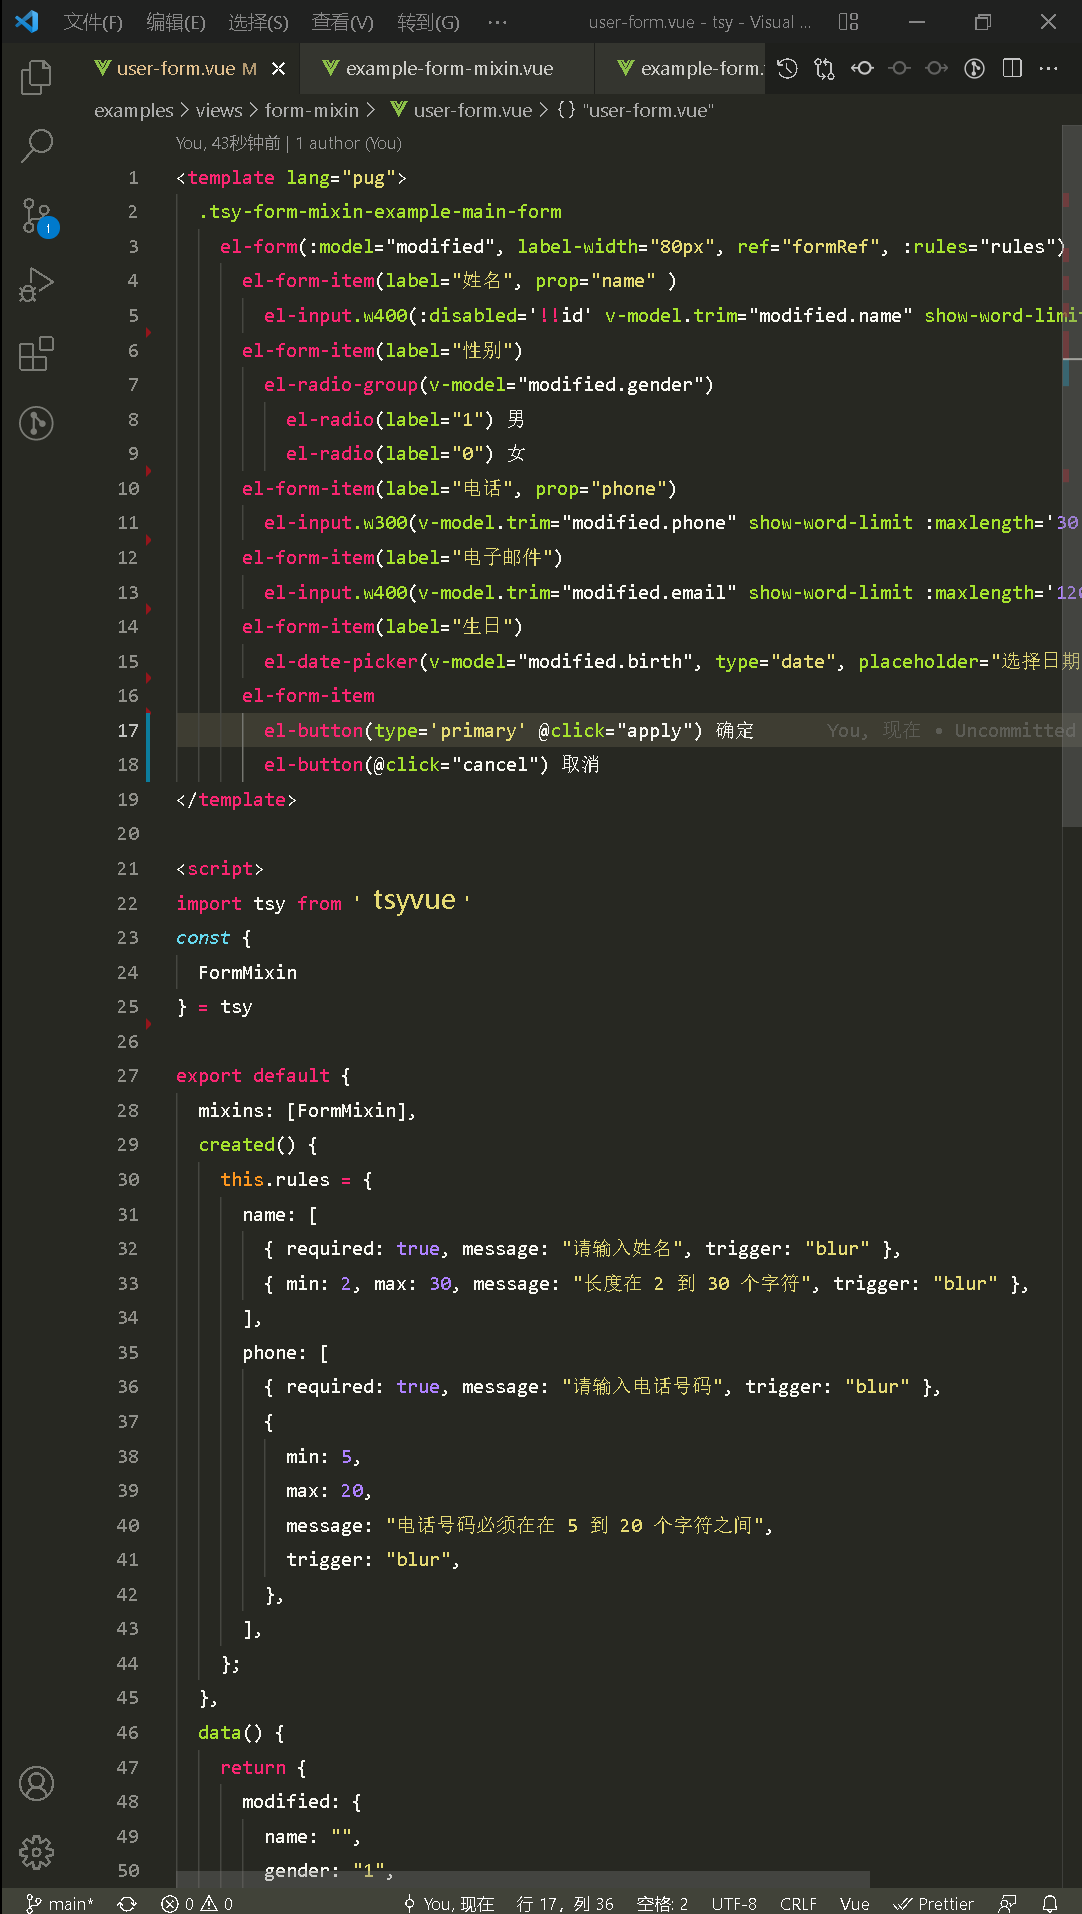
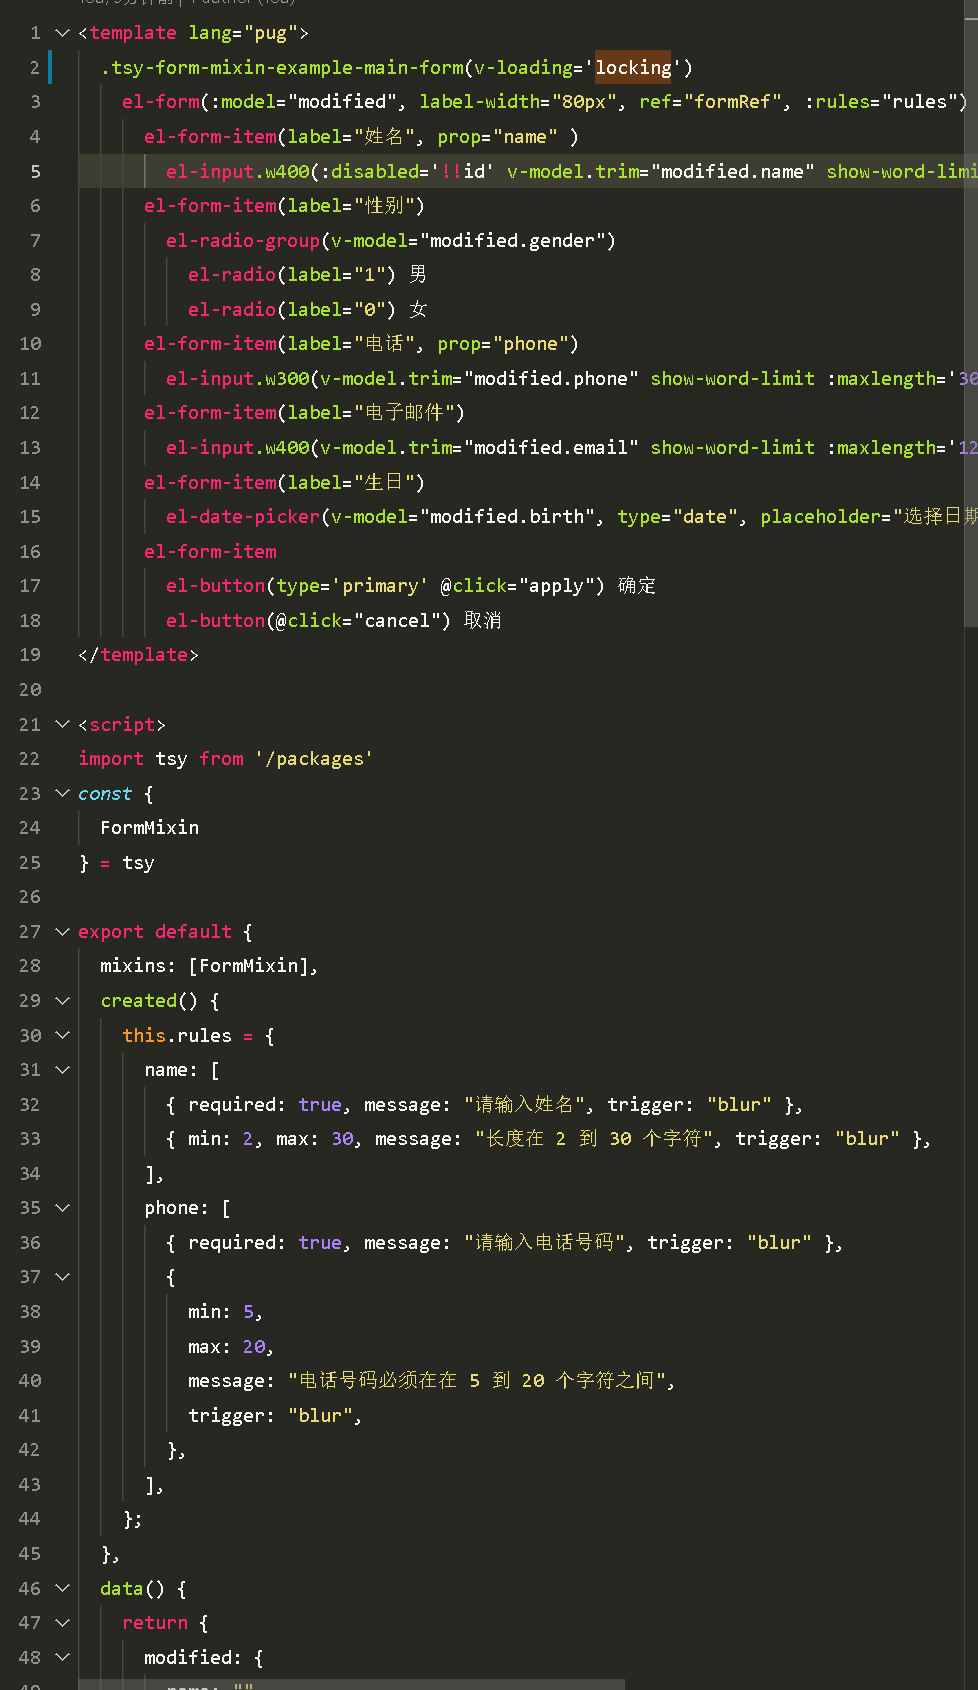
form example update

diff --git a/examples/views/form-mixin/example-form-mixin.vue b/examples/views/form-mixin/example-form-mixin.vue
@@ -1,9 +1,6 @@
 <template lang="pug">
   .tsy-form-mixin-example
     .h1 form-mixin 
-    p
-      el-button(type='primary' @click='goto("user-form-new")') 新建
-      el-button(type='primary' @click='goto("user-form-update", {params: {id:123}})') 编辑
 
     p.mt100 form-mixin 是另一个大大提高开发效率的抽象
     p 以往我们开发一个新建表单，要处理layout，表单验证，数据提交，然后再去写编辑表单，还要处理layout，数据拉取，数据验证，以及表单提交。
@@ -15,17 +12,19 @@
       a(href='https://github.com/lshxq/examples_tsyvue' target='new') https://github.com/lshxq/examples_tsyvue
 
     p.mt100 这里是核心form的代码示例，模板部分是基于element-ui开发的form的layout。然后混入了form-mixin，从而集成了表单验证和数据提交，以及在编辑的场合加载数据的能力。
-    p form-mixin中，表单编辑的model叫modified，对应了还有original，original保存的加载下来的原始数据，用于在编辑时，做增量编辑。
+    p form-mixin中，表单编辑的model叫modified。
     p form-mixin以post的方式创建新数据，以patch的方式，提交增量的变更数据。
-    p form-mixin的created中定义了用于表单验证的rules，并且传给了el-form，这里完全符合element-ui规范的操作。
-    p 按钮调用的而apply函数，是form-mixin中提供的功能，用于表单提交，这个函数执行会先做表单验证，如果验证通过，会提交数据，完成后会调用钩子函数submitted，我们只需要复写这个submitted函数，来做提交成功后而处理即可。
+    p vue实例created中定义了用于表单验证的rules，并且传给了el-form，这里完全符合element-ui规范的操作。
+    p 按钮调用的apply函数，是form-mixin中提供的功能，用于表单提交，这个函数执行会先做表单验证，如果验证通过，会提交数据，完成后会调用钩子函数submitted，我们只需要复写这个submitted函数，来做提交成功后而处理即可。
     p 按钮调用的cancel函数是自己定义的，处理取消的场合即可。
+    p form-mixin提供了一个表单锁定状态，locking，在数据载入和数据提交过程中，locking值为true，可以利用它来锁定form
     img(src='../../assets/form-mixin-core-form.png')
    
     p.mt100 上面就是核心form的开发，具体步骤如下
       ul
         li 通过element-ui搭建表单的layout
         li vue中混入form-mixin 
+        li 通过locking的值来锁定form，禁止用户操作form
         li 在created中绑定element-ui的表单验证
         li 提交按钮直接调用form-mixin中的apply函数
         li 通过复写submitted函数来做表单提交后的处理
@@ -55,6 +54,10 @@
       li beforePost，在提交数据时调用，接受的待提交的数据，期待返回处理后的数据，用于提价前数据变形，以满足接口要求。默认行为是不做任何处理。
       li submitted, 数据提交完成后 的处理，默认不做任何操作。通常是用来页面迁移
       li serverError，在调用接口时，接口返回失败，默认打印了错误信息。
+
+    .mt100 基于form-mixins的例子入口
+      el-button(type='primary' @click='goto("user-form-new")') 新建
+      el-button(type='primary' @click='goto("user-form-update", {params: {id:123}})') 编辑
 </template>
 
 <script>

diff --git a/examples/views/form-mixin/user-form.vue b/examples/views/form-mixin/user-form.vue
@@ -1,5 +1,5 @@
 <template lang="pug">
-  .tsy-form-mixin-example-main-form
+  .tsy-form-mixin-example-main-form(v-loading='locking')
     el-form(:model="modified", label-width="80px", ref="formRef", :rules="rules")
       el-form-item(label="姓名", prop="name" )
         el-input.w400(:disabled='!!id' v-model.trim="modified.name" show-word-limit :maxlength='30')

diff --git a/packages/components/form/src/form.vue b/packages/components/form/src/form.vue
@@ -1,5 +1,5 @@
 <template lang="pug">
-  .tsy-form-main(v-loading='state.submitted || state.loading')
+  .tsy-form-main(v-loading='locking')
     el-form(ref='formRef' 
       :model='modified' 
       :label-width='labelWidthComp'
